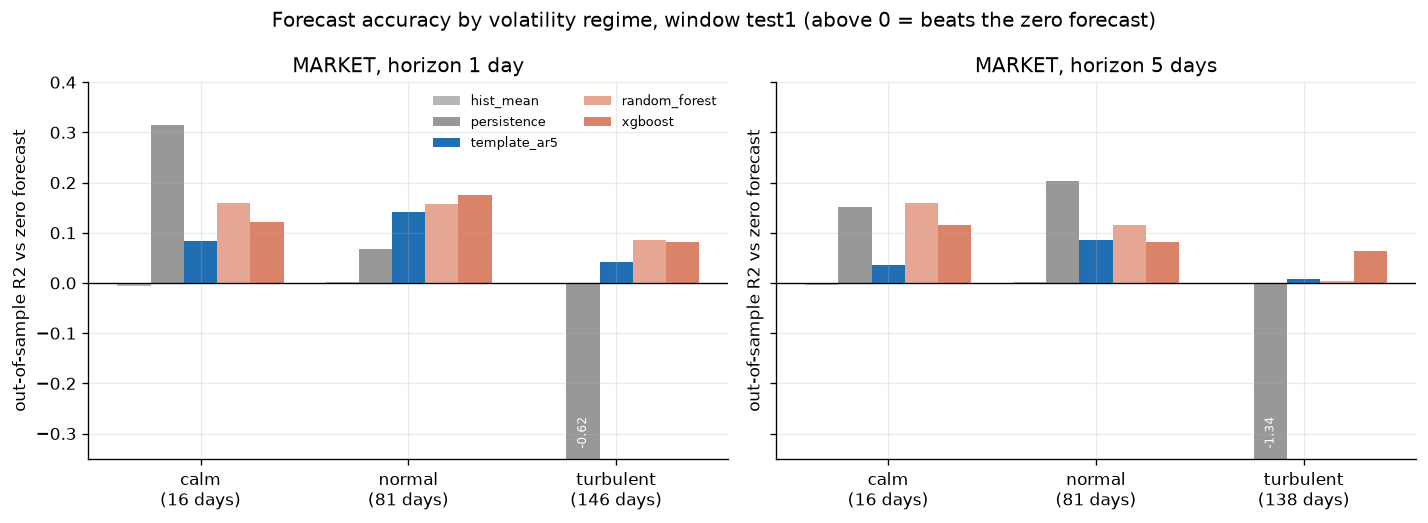
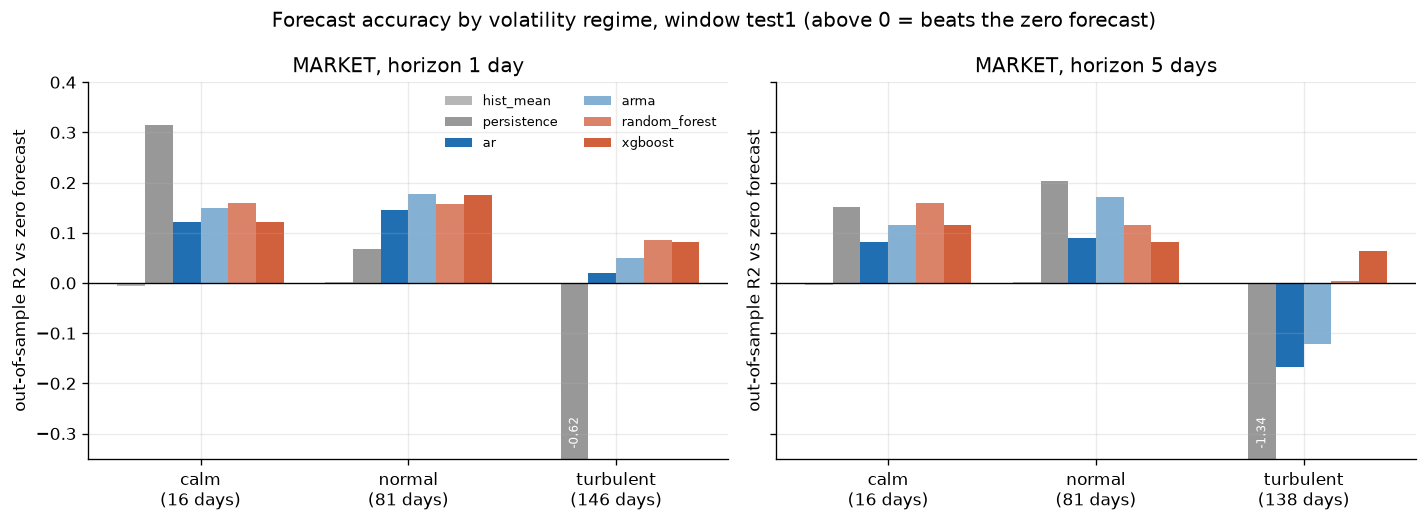
fix(eda): rerun regime analysis with ar, arma, stock_arx

diff --git a/src/eda/regime_analysis.py b/src/eda/regime_analysis.py
@@ -28,7 +28,7 @@ from src.viz.style import PALETTE
 CRISIS = ("2020-03-01", "2020-12-31")
 VOL_ORDER = ["calm", "normal", "turbulent"]
 LOW_N_DATES = 30                      # fewer test days than this: treat results as weak evidence
-TRADITIONAL = ("template_ar5", "ar", "arma", "ar_gjr_garch_t")
+TRADITIONAL = ("template_ar5", "ar", "arma", "ar_gjr_garch_t", "stock_arx")
 ML = ("logistic", "random_forest", "xgboost", "lstm")
 
 
